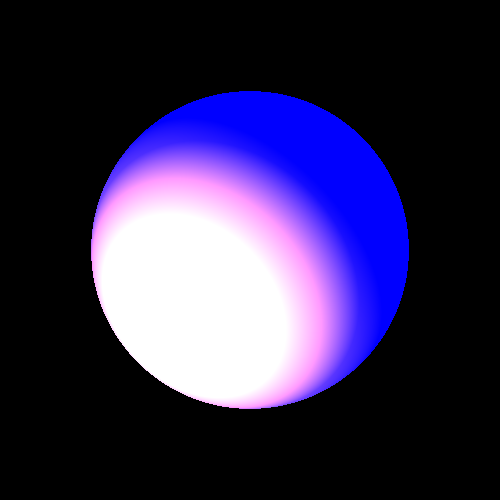
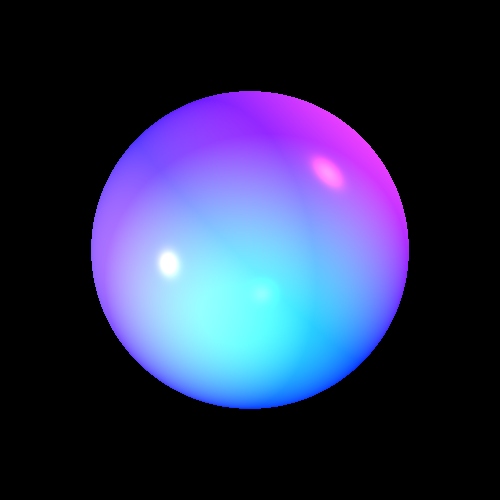
s

diff --git a/src/unittests/LightsTests.java b/src/unittests/LightsTests.java
@@ -31,116 +31,99 @@ public class LightsTests {
 	private static Geometry sphere = new Sphere(new Point3D(0, 0, -50), 50) //
 			.setEmission(new Color(java.awt.Color.BLUE)) //
 			.setMaterial(new Material().setkD(0.5).setkS(0.5).setnShininess(100));
-
-	/**
-	 * Produce a picture of a sphere lighted by a directional light
+	/*
+		*//**
+			 * Produce a picture of a sphere lighted by a directional light
+			 */
+	/*
+	 * @Test public void sphereDirectional() { scene1.geometries.add(sphere);
+	 * scene1.lights.add(new DirectionalLight(new Color(500, 300, 0), new Vector(1,
+	 * 1, -1)));
+	 * 
+	 * ImageWriter imageWriter = new ImageWriter("lightSphereDirectional", 500,
+	 * 500); Render render = new Render()// .setImageWriter(imageWriter) //
+	 * .setCamera(camera1) // .setRayTracerBase(new RayTracerBasic(scene1));
+	 * render.renderImage(); render.writeToImage(); }
+	 * 
 	 */
-	@Test
-	public void sphereDirectional() {
-		scene1.geometries.add(sphere);
-		scene1.lights.add(new DirectionalLight(new Color(500, 300, 0), new Vector(1, 1, -1)));
-
-		ImageWriter imageWriter = new ImageWriter("lightSphereDirectional", 500, 500);
-		Render render = new Render()//
-				.setImageWriter(imageWriter) //
-				.setCamera(camera1) //
-				.setRayTracerBase(new RayTracerBasic(scene1));
-		render.renderImage();
-		render.writeToImage();
-	}
-
 	/**
-	 * Produce a picture of a sphere lighted by a point light
+		 * Produce a picture of a sphere lighted by a point light
+		 */
+	/*
+	 * @Test public void spherePoint() { scene1.geometries.add(sphere);
+	 * scene1.lights.add(new PointLight(new Color(500, 300, 0), new Point3D(-50,
+	 * -50, 50))// .setkL(0.00001).setkQ(0.000001));
+	 * 
+	 * ImageWriter imageWriter = new ImageWriter("lightSpherePoint", 500, 500);
+	 * Render render = new Render()// .setImageWriter(imageWriter) //
+	 * .setCamera(camera1) // .setRayTracerBase(new RayTracerBasic(scene1));
+	 * render.renderImage(); render.writeToImage(); }
+	 * 
+	 *//**
+		 * Produce a picture of a sphere lighted by a spot light
+		 */
+	/*
+	 * @Test public void sphereSpot() { scene1.geometries.add(sphere);
+	 * scene1.lights.add(new SpotLight(new Color(500, 300, 0), new Point3D(-50, -50,
+	 * 50), new Vector(1, 1, -2)) // .setkL(0.00001).setkQ(0.00000001));
+	 * 
+	 * ImageWriter imageWriter = new ImageWriter("lightSphereSpot", 500, 500);
+	 * Render render = new Render()// .setImageWriter(imageWriter) //
+	 * .setCamera(camera1) // .setRayTracerBase(new RayTracerBasic(scene1));
+	 * render.renderImage(); render.writeToImage(); }
 	 */
-	@Test
-	public void spherePoint() {
-		scene1.geometries.add(sphere);
-		scene1.lights.add(new PointLight(new Color(500, 300, 0), new Point3D(-50, -50, 50))//
-				.setkL(0.00001).setkQ(0.000001));
+	/*
+		*//**
+			 * Produce a picture of a two triangles lighted by a directional light
+			 */
+	/*
+	 * @Test public void trianglesDirectional() {
+	 * scene2.geometries.add(triangle1.setMaterial(new
+	 * Material().setkD(0.8).setkS(0.2).setnShininess(300)), //
+	 * triangle2.setMaterial(new
+	 * Material().setkD(0.8).setkS(0.2).setnShininess(300))); scene2.lights.add(new
+	 * DirectionalLight(new Color(300, 150, 150), new Vector(0, 0, -1)));
+	 * 
+	 * ImageWriter imageWriter = new ImageWriter("lightTrianglesDirectional", 500,
+	 * 500); Render render = new Render()// .setImageWriter(imageWriter) //
+	 * .setCamera(camera2) // .setRayTracerBase(new RayTracerBasic(scene2));
+	 * render.renderImage(); render.writeToImage(); }
+	 * 
+	 *//**
+		 * Produce a picture of a two triangles lighted by a point light
+		 */
+	/*
+	 * @Test public void trianglesPoint() {
+	 * scene2.geometries.add(triangle1.setMaterial(new
+	 * Material().setkD(0.5).setkS(0.5).setnShininess(300)), //
+	 * triangle2.setMaterial(new
+	 * Material().setkD(0.5).setkS(0.5).setnShininess(300))); scene2.lights.add(new
+	 * PointLight(new Color(500, 250, 250), new Point3D(10, -10, -130)) //
+	 * .setkL(0.0005).setkQ(0.0005));
+	 * 
+	 * ImageWriter imageWriter = new ImageWriter("lightTrianglesPoint", 500, 500);
+	 * Render render = new Render()// .setImageWriter(imageWriter) //
+	 * .setCamera(camera2) // .setRayTracerBase(new RayTracerBasic(scene2));
+	 * render.renderImage(); render.writeToImage(); }
+	 * 
+	 *//**
+		 * Produce a picture of a two triangles lighted by a spot light
+		 *//*
+			 * @Test public void trianglesSpot() {
+			 * scene2.geometries.add(triangle1.setMaterial(new
+			 * Material().setkD(0.5).setkS(0.5).setnShininess(300)),
+			 * triangle2.setMaterial(new
+			 * Material().setkD(0.5).setkS(0.5).setnShininess(300))); scene2.lights.add(new
+			 * SpotLight(new Color(500, 250, 250), new Point3D(10, -10, -130), new
+			 * Vector(-2, -2, -1)) // .setkL(0.0001).setkQ(0.000005));
+			 * 
+			 * ImageWriter imageWriter = new ImageWriter("lightTrianglesSpot", 500, 500);
+			 * Render render = new Render()// .setImageWriter(imageWriter) //
+			 * .setCamera(camera2) // .setRayTracerBase(new RayTracerBasic(scene2));
+			 * render.renderImage(); render.writeToImage(); }
+			 * 
+			 */
 
-		ImageWriter imageWriter = new ImageWriter("lightSpherePoint", 500, 500);
-		Render render = new Render()//
-				.setImageWriter(imageWriter) //
-				.setCamera(camera1) //
-				.setRayTracerBase(new RayTracerBasic(scene1));
-		render.renderImage();
-		render.writeToImage();
-	}
-
-	/**
-	 * Produce a picture of a sphere lighted by a spot light
-	 */
-	@Test
-	public void sphereSpot() {
-		scene1.geometries.add(sphere);
-		scene1.lights.add(new SpotLight(new Color(500, 300, 0), new Point3D(-50, -50, 50), new Vector(1, 1, -2)) //
-				.setkL(0.00001).setkQ(0.00000001));
-
-		ImageWriter imageWriter = new ImageWriter("lightSphereSpot", 500, 500);
-		Render render = new Render()//
-				.setImageWriter(imageWriter) //
-				.setCamera(camera1) //
-				.setRayTracerBase(new RayTracerBasic(scene1));
-		render.renderImage();
-		render.writeToImage();
-	}
-
-	/**
-	 * Produce a picture of a two triangles lighted by a directional light
-	 */
-	@Test
-	public void trianglesDirectional() {
-		scene2.geometries.add(triangle1.setMaterial(new Material().setkD(0.8).setkS(0.2).setnShininess(300)), //
-				triangle2.setMaterial(new Material().setkD(0.8).setkS(0.2).setnShininess(300)));
-		scene2.lights.add(new DirectionalLight(new Color(300, 150, 150), new Vector(0, 0, -1)));
-
-		ImageWriter imageWriter = new ImageWriter("lightTrianglesDirectional", 500, 500);
-		Render render = new Render()//
-				.setImageWriter(imageWriter) //
-				.setCamera(camera2) //
-				.setRayTracerBase(new RayTracerBasic(scene2));
-		render.renderImage();
-		render.writeToImage();
-	}
-
-	/**
-	 * Produce a picture of a two triangles lighted by a point light
-	 */
-	@Test
-	public void trianglesPoint() {
-		scene2.geometries.add(triangle1.setMaterial(new Material().setkD(0.5).setkS(0.5).setnShininess(300)), //
-				triangle2.setMaterial(new Material().setkD(0.5).setkS(0.5).setnShininess(300)));
-		scene2.lights.add(new PointLight(new Color(500, 250, 250), new Point3D(10, -10, -130)) //
-				.setkL(0.0005).setkQ(0.0005));
-
-		ImageWriter imageWriter = new ImageWriter("lightTrianglesPoint", 500, 500);
-		Render render = new Render()//
-				.setImageWriter(imageWriter) //
-				.setCamera(camera2) //
-				.setRayTracerBase(new RayTracerBasic(scene2));
-		render.renderImage();
-		render.writeToImage();
-	}
-
-	/**
-	 * Produce a picture of a two triangles lighted by a spot light
-	 */
-	@Test
-	public void trianglesSpot() {
-		scene2.geometries.add(triangle1.setMaterial(new Material().setkD(0.5).setkS(0.5).setnShininess(300)),
-				triangle2.setMaterial(new Material().setkD(0.5).setkS(0.5).setnShininess(300)));
-		scene2.lights.add(new SpotLight(new Color(500, 250, 250), new Point3D(10, -10, -130), new Vector(-2, -2, -1)) //
-				.setkL(0.0001).setkQ(0.000005));
-
-		ImageWriter imageWriter = new ImageWriter("lightTrianglesSpot", 500, 500);
-		Render render = new Render()//
-				.setImageWriter(imageWriter) //
-				.setCamera(camera2) //
-				.setRayTracerBase(new RayTracerBasic(scene2));
-		render.renderImage();
-		render.writeToImage();
-	}
-	
 	/**
 	 * Produce a picture of a two triangles lighted by a 3 different light sources
 	 */
@@ -148,11 +131,11 @@ public class LightsTests {
 	public void trianglesAllLights() {
 		scene2.geometries.add(triangle1.setMaterial(new Material().setkD(0.5).setkS(0.5).setnShininess(300)),
 				triangle2.setMaterial(new Material().setkD(0.5).setkS(0.5).setnShininess(300)));
-		scene2.lights.add(new SpotLight(new Color(500, 250, 250), new Point3D(10, -10, -130), new Vector(-2, -2, -1)) //
+		scene2.lights.add(new SpotLight(new Color(500, 250, 250), new Point3D(20, -60, -100), new Vector(-2, -2, -1)) //
 				.setkL(0.0001).setkQ(0.000005));
-		scene2.lights.add(new PointLight(new Color(500, 250, 250), new Point3D(10, -10, -130)) //
-				.setkL(0.0005).setkQ(0.0005));
-		scene2.lights.add(new DirectionalLight(new Color(300, 150, 150), new Vector(0, 0, -1)));
+		scene2.lights.add(new PointLight(new Color(300, 150, 50), new Point3D(50, 15, -100)) //
+				.setkL(0.005).setkQ(0.0005));
+		scene2.lights.add(new DirectionalLight(new Color(200, 100, 100), new Vector(0, 0, -1)));
 
 		ImageWriter imageWriter = new ImageWriter("lightTriangles", 500, 500);
 		Render render = new Render()//
@@ -169,11 +152,13 @@ public class LightsTests {
 	@Test
 	public void sphereAllLights() {
 		scene1.geometries.add(sphere);
-		scene1.lights.add(new SpotLight(new Color(500, 300, 0), new Point3D(-50, -50, 50), new Vector(1, 1, -2)) //
-				.setkL(0.00001).setkQ(0.00000001));
-		scene1.lights.add(new PointLight(new Color(500, 300, 0), new Point3D(-50, -50, 50))//
-				.setkL(0.00001).setkQ(0.000001));
-		scene1.lights.add(new DirectionalLight(new Color(500, 300, 0), new Vector(1, 1, -1)));
+		scene1.lights.add(new SpotLight(new Color(300, 200, 140), new Point3D(-180, -30, 80), new Vector(1, 1, -1)) //
+				.setkL(0.00001).setkQ(0.00001));
+
+		scene1.lights.add(new PointLight(new Color(100, 500, 0), new Point3D(20, -70, 90))//
+				.setkL(0.00002).setkQ(0.00001));
+		 scene1.lights.add(new DirectionalLight(new Color(475, 127, 90), new Vector(-20,
+		 -20, -2)));
 
 		ImageWriter imageWriter = new ImageWriter("lightSphere", 500, 500);
 		Render render = new Render()//
